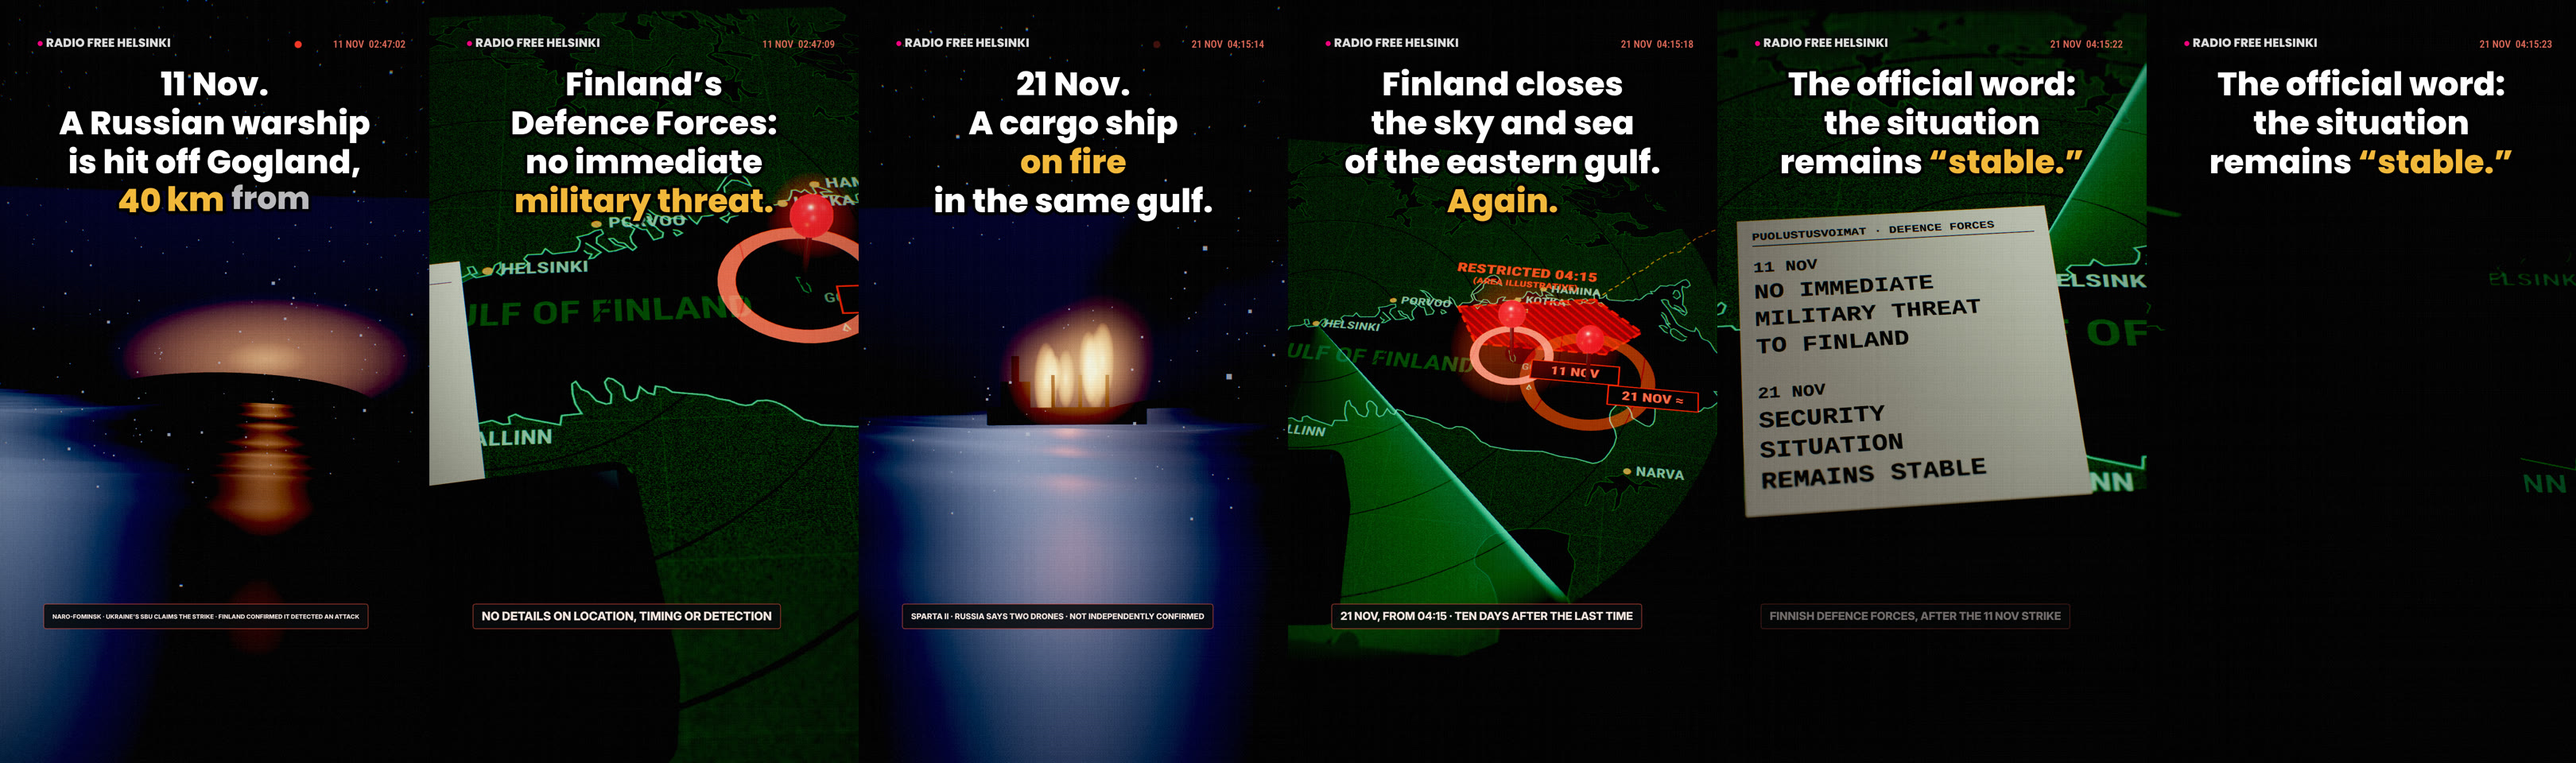
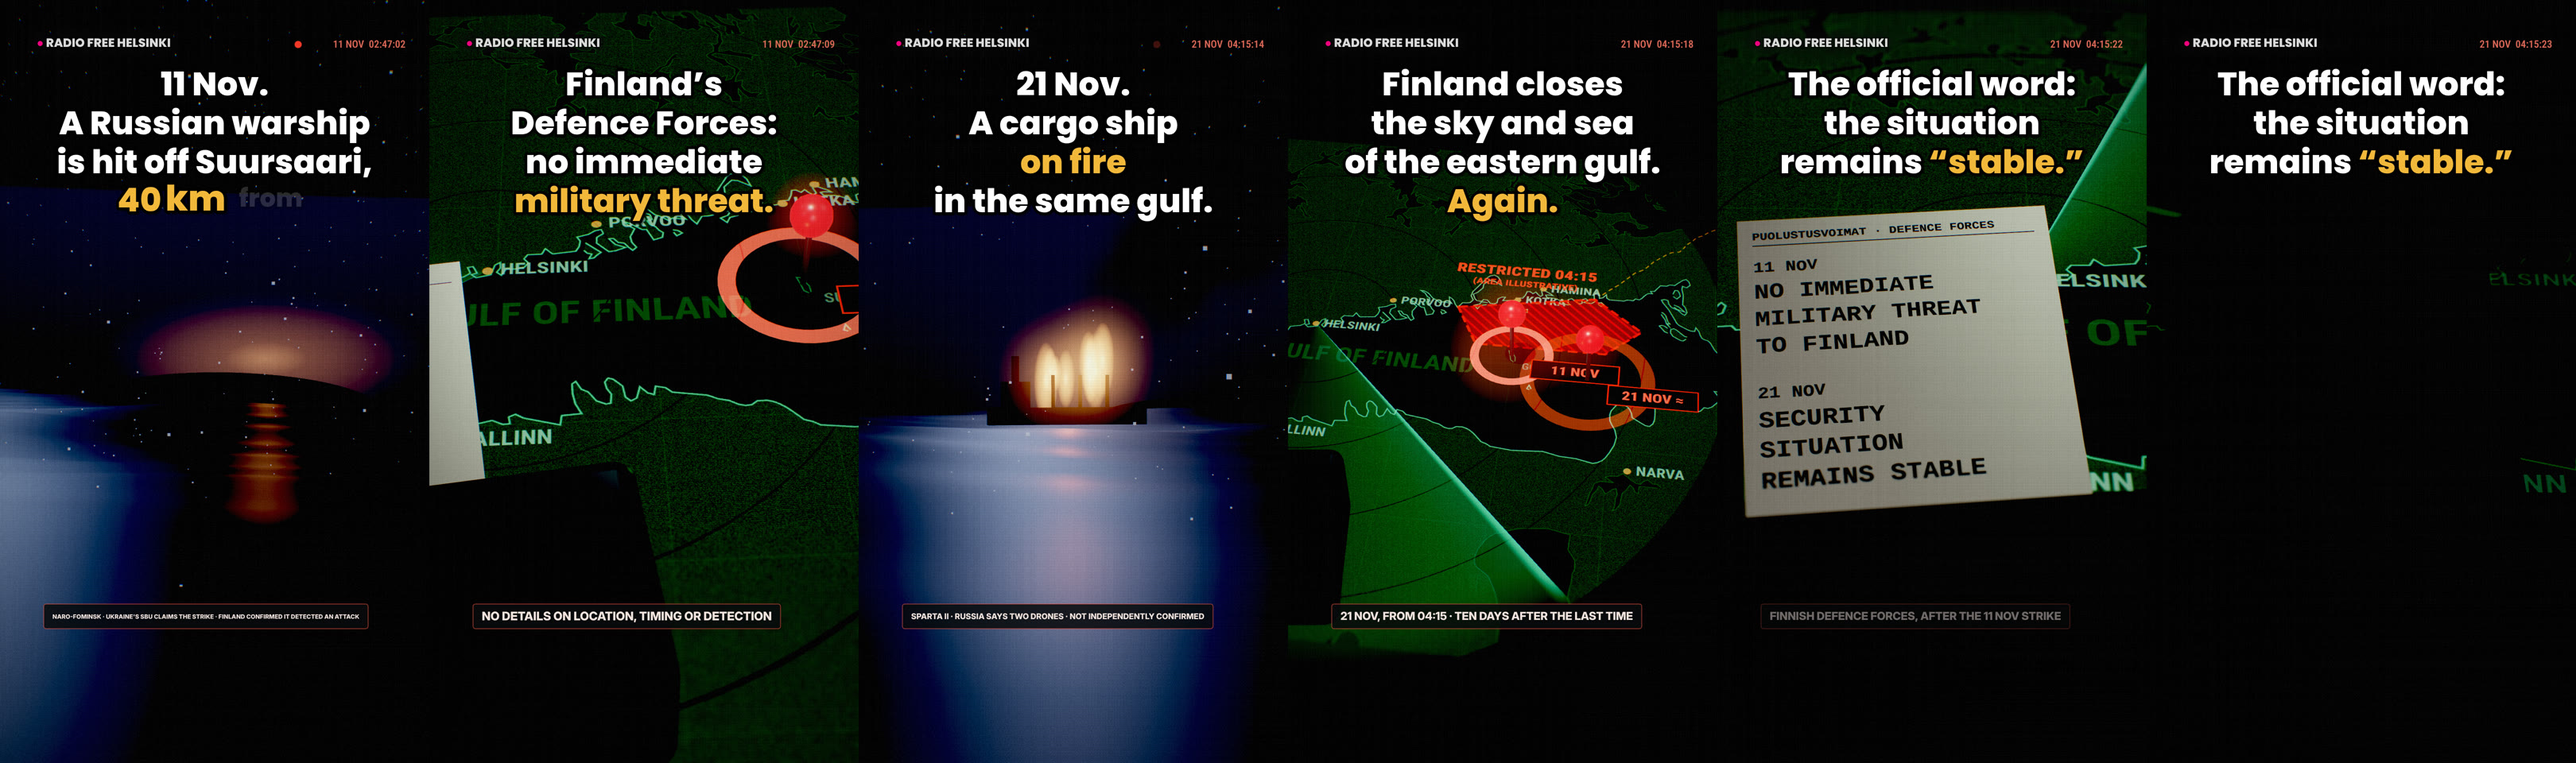
RFH Stable: Suursaari, the Finnish name, on screen
Claude-Session: https://claude.ai/code/session_011b61vCGymuKHRP9nugFoKh

diff --git a/radiofree/studio/art-motion/clay/gulf/film.js b/radiofree/studio/art-motion/clay/gulf/film.js
@@ -6,7 +6,7 @@
 // phosphor-green radar map of the gulf with a sweep, red markers, a hatched restricted zone, a teleprinter typing the official
 // lines). The lamp flickers on a distant thud and goes OUT on the last word.
 // Five beats, one thing happening in each:
-//   1 · SEA     night, sleet, the swell; a flash under the cloud behind Gogland on "40 km"                     "hit"
+//   1 · SEA     night, sleet, the swell; a flash under the cloud behind Suursaari (Gogland) on "40 km"                     "hit"
 //   2 · ROOM    the table: the first red marker at Gogland pulses; the teleprinter types NO IMMEDIATE THREAT     "threat"
 //   3 · SEA     a ship burning low on the horizon, smoke leaning in the wind                                    "fire"
 //   4 · ROOM    a red beacon turns; the hatched restricted zone floods in on "Again"; the second marker          "closed"
@@ -155,7 +155,7 @@ const map = (() => { const latC = (MV.lat0 + MV.lat1) / 2, cl = Math.cos(latC * 
   g.font = '700 34px RobotoCondensed'; g.textBaseline = 'middle';
   for (const [n, lon, lat] of [['HELSINKI', 24.94, 60.17], ['TALLINN', 24.75, 59.44], ['KOTKA', 26.95, 60.47], ['ST PETERSBURG', 30.32, 59.94], ['NARVA', 28.19, 59.38], ['PORVOO', 25.66, 60.39], ['HAMINA', 27.20, 60.57]]) {
     const [x, y] = pr([lon, lat]); g.fillStyle = 'rgba(255,190,110,.95)'; g.beginPath(); g.arc(x, y, 8, 0, TAU); g.fill(); g.fillStyle = 'rgba(200,255,220,.85)'; g.fillText(n, x + 18, y); }
-  { const [x, y] = pr([26.98, 60.05]); g.fillStyle = 'rgba(200,255,220,.6)'; g.font = '600 28px RobotoCondensed'; g.fillText('GOGLAND', x + 26, y + 30); }
+  { const [x, y] = pr([26.98, 60.05]); g.fillStyle = 'rgba(200,255,220,.6)'; g.font = '600 28px RobotoCondensed'; g.fillText('SUURSAARI', x + 26, y + 30); }
   g.fillStyle = 'rgba(150,255,190,.35)'; g.font = '700 64px RobotoCondensed'; g.textAlign = 'center'; { const [x, y] = pr([25.6, 59.95]); g.fillText(UI.map, x, y); }
   return { canvas: c, pr }; })();
 const mapTex = canvasTex(MPW, MPH, (g) => g.drawImage(map.canvas, 0, 0));

diff --git a/radiofree/studio/art-motion/plan/films/50-stable.md b/radiofree/studio/art-motion/plan/films/50-stable.md
@@ -38,3 +38,6 @@ the teleprinter, and the lamp out.
 Build note: the scratch font folder had lost NotoSansJP-800.woff (CAP.loadFonts needs it even for en); restored from
 @fontsource/noto-sans-jp 5.3.1 (japanese subset, weight 800) via npm pack.
 Sound (next, after the owner's OK on the stills): its own kit, GULF.
+
+## v1.1 (21 Nov) — owner: "use Finnish name, Gogland nobody knows"
+Suursaari throughout on screen (caption 1, the map label, the post); "Gogland" kept only in the source notes.
